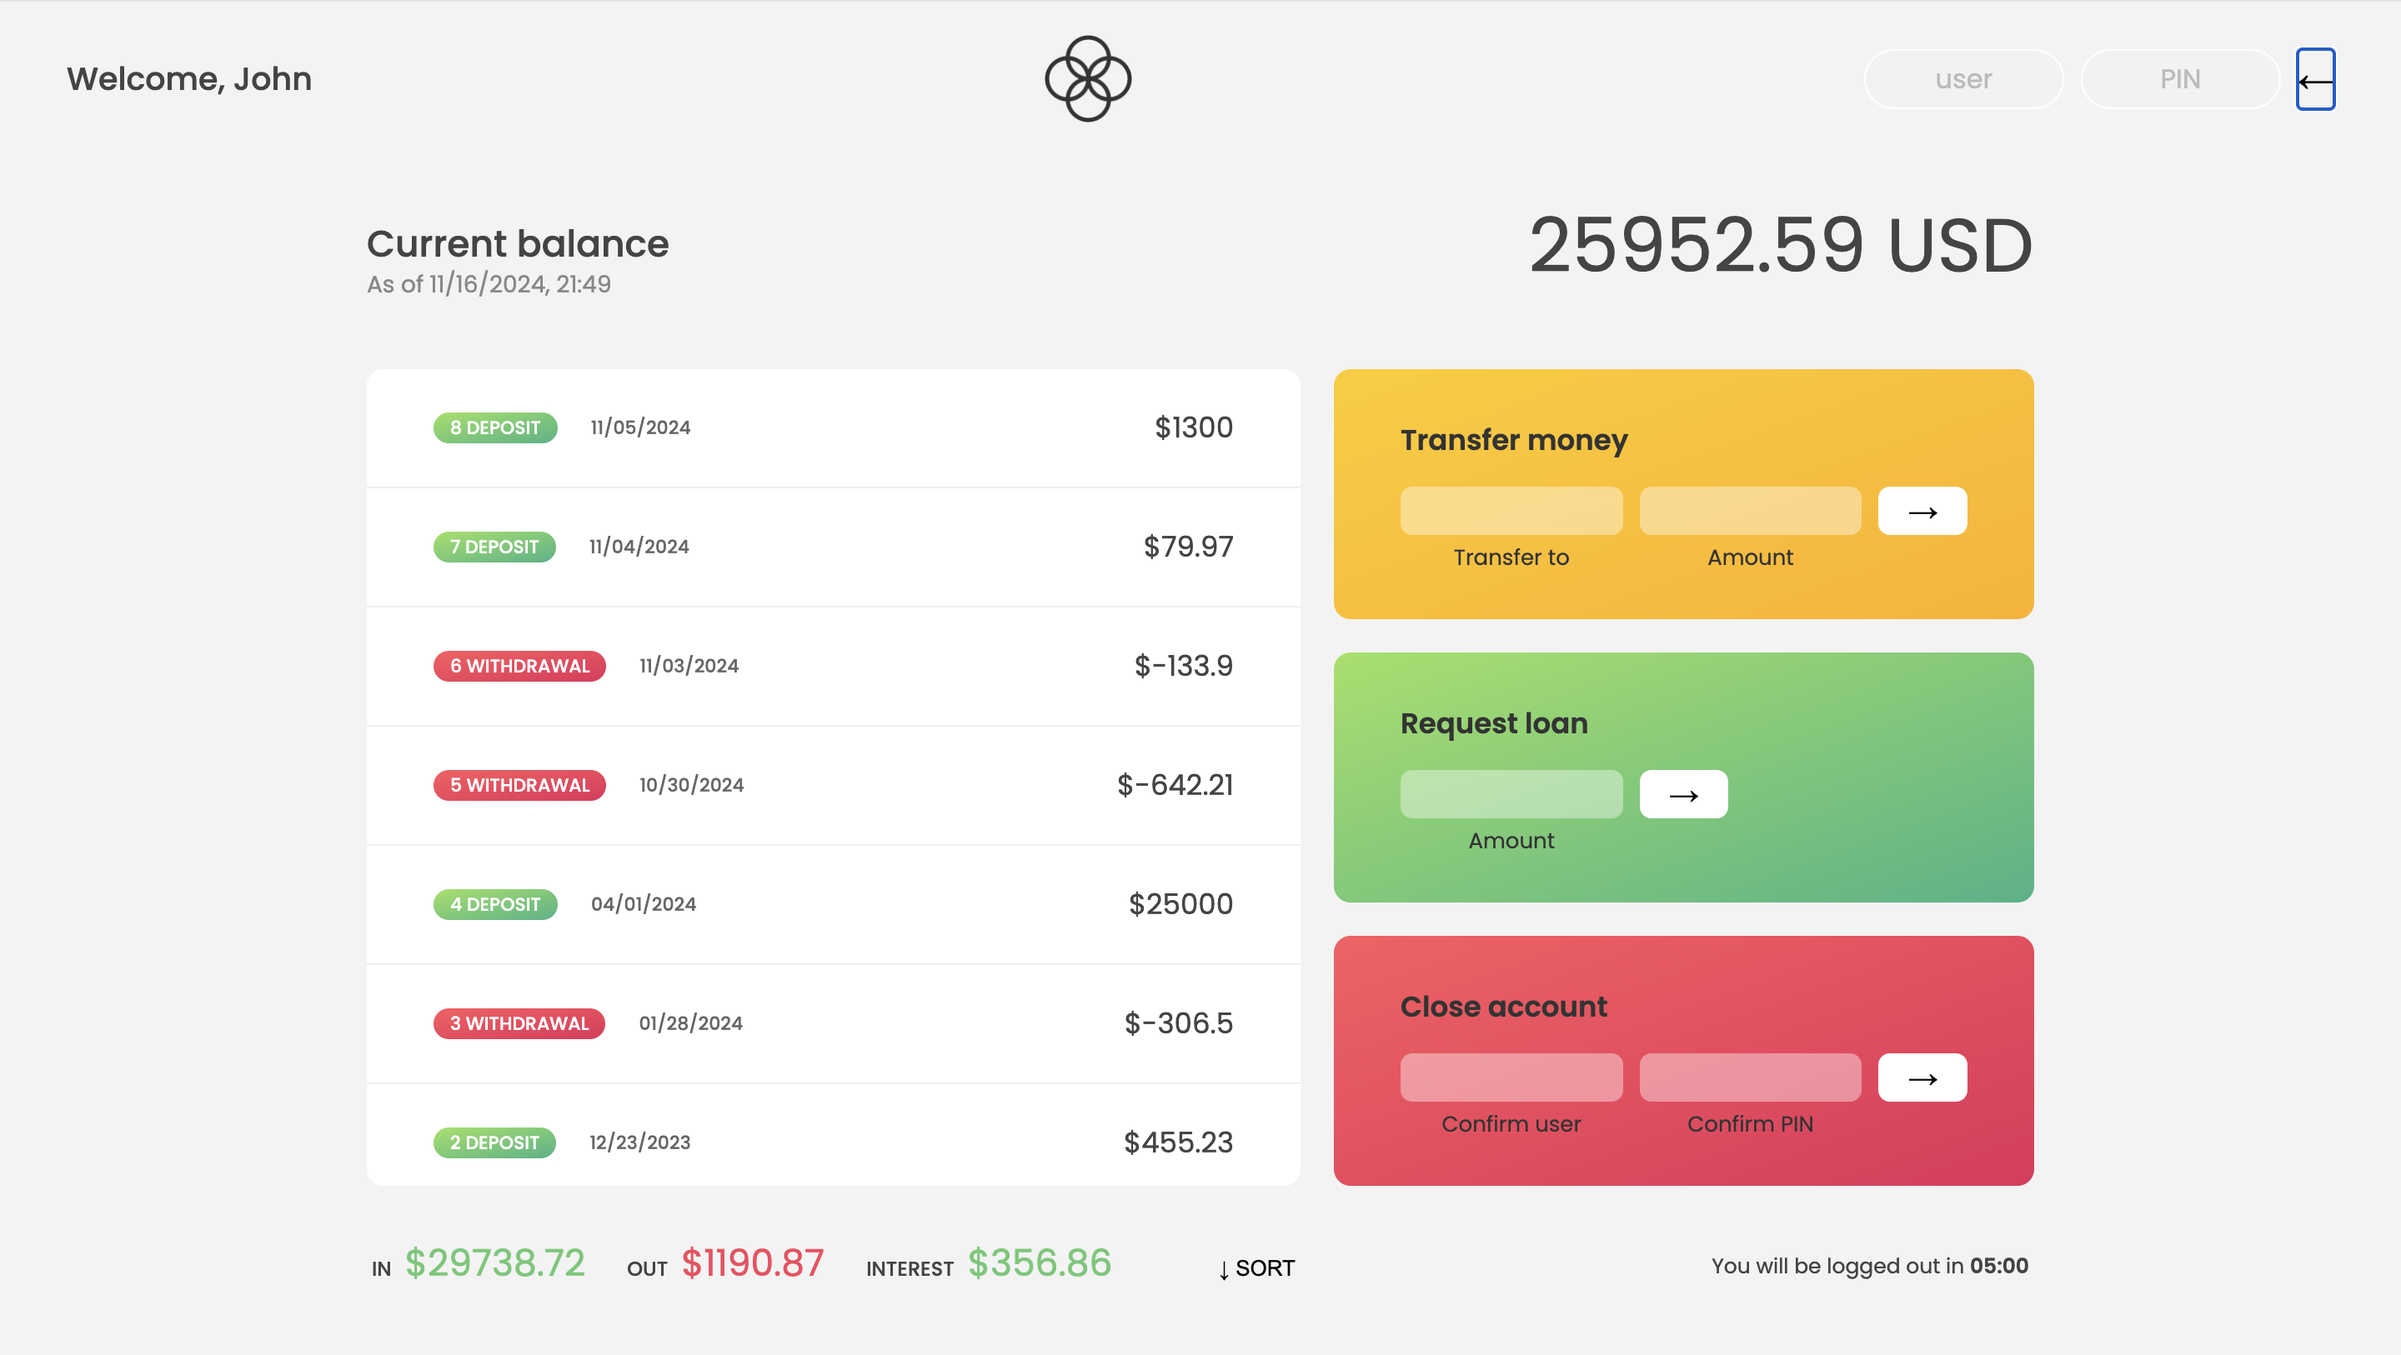
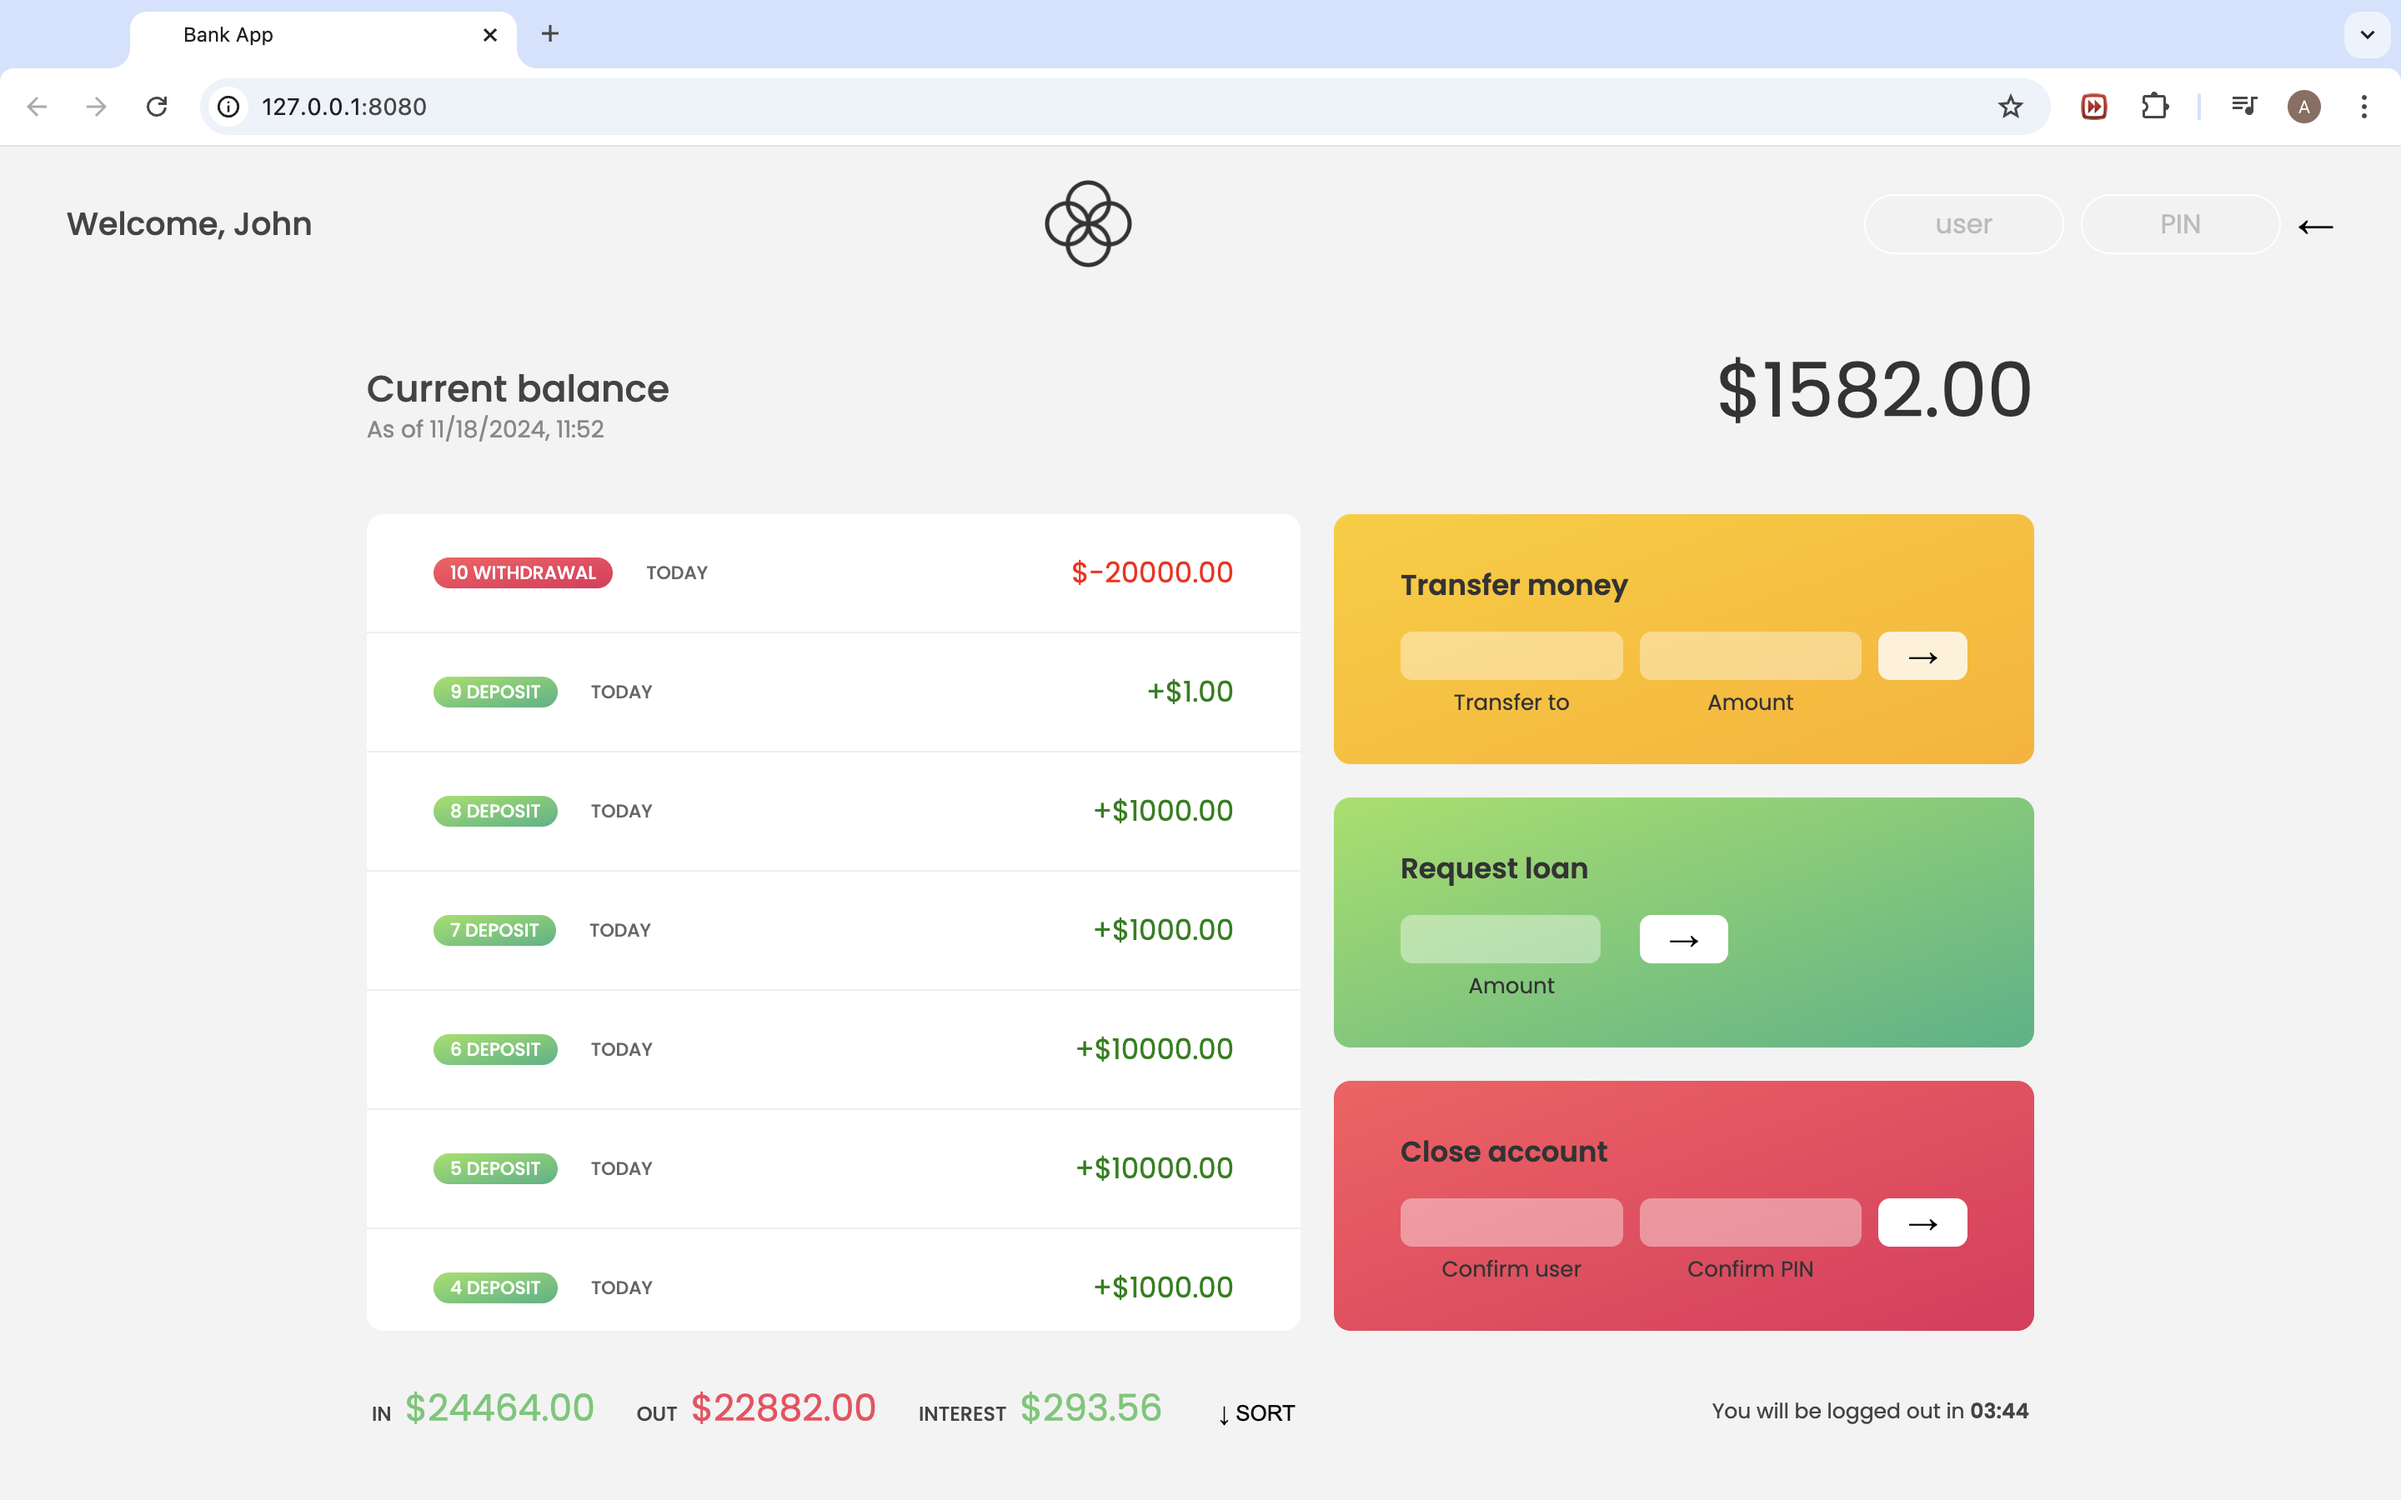
Fix bug and update UI

diff --git a/index.html b/index.html
@@ -4,21 +4,21 @@
     <meta charset="UTF-8" />
     <meta name="viewport" content="width=device-width, initial-scale=1.0" />
     <meta http-equiv="X-UA-Compatible" content="ie=edge" />
-    <link rel="shortcut icon" type="image/png" href="/icon.png" />
+    <link rel="shortcut icon" type="image/png" href="../assets/icon.png" />
 
     <link
       href="https://fonts.googleapis.com/css?family=Poppins:400,500,600&display=swap"
       rel="stylesheet"
     />
 
-    <link rel="stylesheet" href="style.css" />
-    <title>Bankist</title>
+    <link rel="stylesheet" href="../styles/style.css" />
+    <title>Bank App</title>
   </head>
   <body>
     <!-- TOP NAVIGATION -->
     <nav>
       <p class="welcome">Log in to get started</p>
-      <img src="logo.png" alt="Logo" class="logo" />
+      <img src="../assets/logo.png" alt="Logo" class="logo" />
       <form class="login">
         <input
           type="text"
@@ -148,6 +148,6 @@
       </p>
     </main>
 
-    <script src="script.js"></script>
+    <script src="../src/script.js"></script>
   </body>
 </html>

diff --git a/src/script.js b/src/script.js
@@ -469,18 +469,20 @@ btnLoan.addEventListener('click', e => {
       return;
   }
 
-  // Process approved loan
-  const now = new Date().toISOString();
-  currentAccount.movementsDates.push(now);
-  currentAccount.movements.push(amount);
-  loanAmount -= amount;
+  setTimeout(() => {
+      // Process approved loan
+    const now = new Date().toISOString();
+    currentAccount.movementsDates.push(now);
+    currentAccount.movements.push(amount);
+    loanAmount -= amount;
 
-  // Update UI
-  updateUI(currentAccount);
-  inputLoanAmount.value = '';
-  
-  // Show success in input
-  showLoanSuccess(`Loan approved: $${amount}`);
+    // Update UI
+    updateUI(currentAccount);
+    inputLoanAmount.value = '';
+    
+    // Show success in input
+    showLoanSuccess(`Loan approved: $${amount}`);
+  }, 2000)
 });
 
 // Add a success message handler
